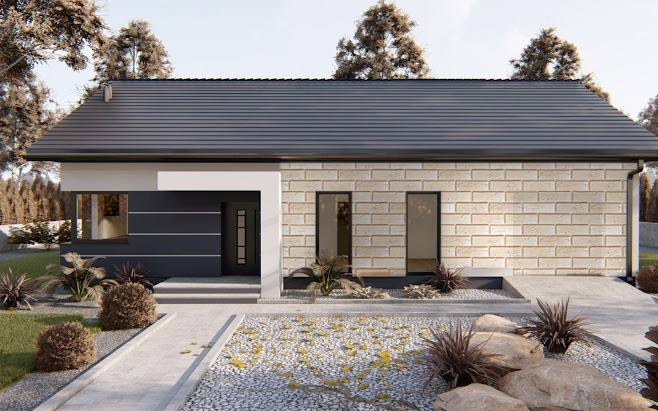
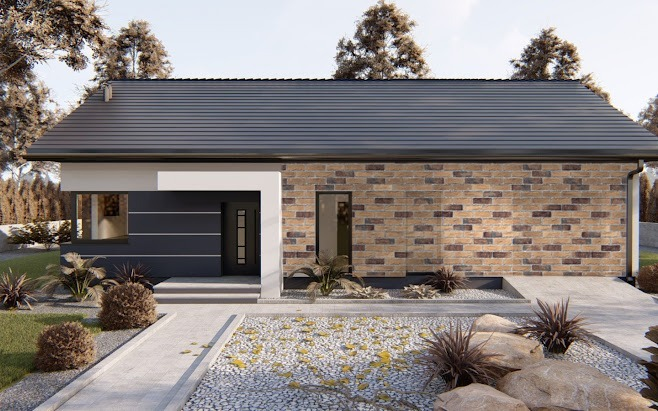
fix: resolution-independent texture scale computation
PROBLEM: Scale was dependent on image resolution. A 4K photo of
the same wall gave different brick sizes than a 720p photo.

ROOT CAUSE: The old formula used px_per_mm (resolution-dependent)
to compute target pixel size, which varied with image quality.

NEW FORMULA (resolution-independent):
  scale = (tile_real_cm / selection_real_cm) × (polygon_px / texture_px)

  - tile_real_cm / selection_real_cm is a PHYSICAL ratio (e.g., 60cm tile / 270cm wall)
    This is the SAME regardless of image resolution.
  - polygon_px / texture_px just normalizes texture to scene pixels.

Now a 500px and 5000px photo of the same wall produce identical
texture proportions — bricks are always the correct physical size.

Changed region(s): [[0.4255, 0.3796, 0.9726, 0.6715]]

diff --git a/api/services/texture.py b/api/services/texture.py
@@ -293,18 +293,24 @@ def compute_texture_scale(
 ) -> float:
     """Compute how much to scale the albedo texture for realistic tiling.
 
-    The key insight: each albedo texture's metadata now contains
-    `tileRealHeightMm` — the exact real-world height (in mm) that the
-    albedo image represents. This eliminates all course/plank counting.
+    RESOLUTION-INDEPENDENT approach:
 
-    Scale formula:
-      target_px = tileRealHeightMm × px_per_mm
-      scale     = target_px / texture_height_px
+    The fundamental equation is:
+      scale = (tile_real_cm / selection_real_cm) × (polygon_height_px / texture_height_px)
 
-    Where px_per_mm comes from CV calibration (ceiling/door detection)
-    or falls back to assuming the visible wall ≈ 270cm.
+    Where:
+      - tile_real_cm: real-world height the texture tile represents (from metadata)
+      - selection_real_cm: real-world height of the user's selection (from calibration)
+      - polygon_height_px: pixel height of the selection in the scene image
+      - texture_height_px: pixel height of the raw albedo texture
+
+    The ratio (tile_real_cm / selection_real_cm) is RESOLUTION-INDEPENDENT.
+    The ratio (polygon_height_px / texture_height_px) normalizes texture to selection pixels.
+
+    This means the SAME physical scene will produce the SAME texture scale
+    whether the input image is 500px or 5000px tall.
     """
-    # ── 1. Get the real-world height this albedo tile covers (mm) ──────
+    # ── 1. Get the real-world height this albedo tile covers (mm → cm) ──
     tile_real_h_mm = float(meta.get("tileRealHeightMm", 0))
 
     if tile_real_h_mm <= 0:
@@ -325,24 +331,34 @@ def compute_texture_scale(
 
         logger.info("Legacy tile height calc: %.0fmm (no tileRealHeightMm in metadata)", tile_real_h_mm)
 
-    # ── 2. Determine px_per_mm ────────────────────────────────────────
-    if analysis and analysis.get("px_per_cm"):
-        # Best: CV-calibrated from ceiling/floor/door detection
-        px_per_cm = float(analysis["px_per_cm"])
-        px_per_mm = px_per_cm / 10.0
-        source = f"cv-calibration (px/cm={px_per_cm:.3f})"
-    else:
-        # Fallback: assume visible wall selection ≈ 270cm
-        wall_mm = 2700.0  # 270cm standard ceiling
-        if analysis and analysis.get("wallHeightCm"):
-            wall_mm = float(analysis["wallHeightCm"]) * 10.0
-            wall_mm = max(1500.0, min(wall_mm, 5000.0))
-        px_per_mm = polygon_height_px / wall_mm
-        source = f"heuristic (wall={wall_mm:.0f}mm)"
+    tile_real_cm = tile_real_h_mm / 10.0  # Convert mm to cm
 
-    # ── 3. Compute scale ──────────────────────────────────────────────
-    target_h_px = max(tile_real_h_mm * px_per_mm, 1.0)
-    scale = target_h_px / float(texture_height_px)
+    # ── 2. Determine the REAL-WORLD height of the selection (cm) ────────
+    # This is the critical value — must be scene-aware, NOT resolution-dependent
+    if analysis and analysis.get("wallHeightCm"):
+        selection_real_cm = float(analysis["wallHeightCm"])
+        source = f"cv-calibrated ({selection_real_cm:.0f}cm)"
+    elif analysis and analysis.get("px_per_cm"):
+        # Derive from px_per_cm and polygon height
+        px_per_cm = float(analysis["px_per_cm"])
+        selection_real_cm = polygon_height_px / px_per_cm
+        source = f"px_per_cm-derived ({selection_real_cm:.0f}cm)"
+    else:
+        # Fallback: assume selection = typical wall section
+        # Use 270cm as standard interior wall height
+        selection_real_cm = 270.0
+        source = f"default ({selection_real_cm:.0f}cm)"
+
+    # Sanity clamp: a selection should represent 50cm to 1000cm
+    selection_real_cm = max(50.0, min(selection_real_cm, 1000.0))
+
+    # ── 3. Compute scale (RESOLUTION-INDEPENDENT) ─────────────────────
+    # How many texture tiles fit vertically in the selection?
+    # tile_ratio = tile_real_cm / selection_real_cm (e.g., 60cm tile / 270cm wall = 0.222)
+    # pixel_ratio = polygon_height_px / texture_height_px (normalize to scene pixels)
+    tile_ratio = tile_real_cm / selection_real_cm
+    pixel_ratio = polygon_height_px / float(texture_height_px)
+    scale = tile_ratio * pixel_ratio
 
     # ── 4. Apply per-product multiplier if set ────────────────────────
     mult = float(meta.get("textureScaleMultiplier", 1.0))
@@ -356,13 +372,13 @@ def compute_texture_scale(
     final_scale = scale * mult
 
     # ── 5. Log for debugging ──────────────────────────────────────────
-    module_h = float(meta.get("moduleHeightMm", 80))
-    brick_px = module_h * px_per_mm
+    module_h_cm = float(meta.get("moduleHeightMm", 80)) / 10.0
+    module_px = module_h_cm / selection_real_cm * polygon_height_px
     logger.info(
-        "TEXTURE SCALE: %.4f (×%.2f mult) — tile=%.0fmm→%.0fpx, "
-        "1 module=%dmm→%.0fpx, source=%s, product=%s",
-        final_scale, mult, tile_real_h_mm, target_h_px,
-        int(module_h), brick_px, source, meta.get("name", "?"),
+        "TEXTURE SCALE: %.4f (×%.2f mult) — tile=%.1fcm, selection=%.0fcm, "
+        "1 module=%.1fcm→%.0fpx, source=%s, product=%s",
+        final_scale, mult, tile_real_cm, selection_real_cm,
+        module_h_cm, module_px, source, meta.get("name", "?"),
     )
 
     return final_scale
